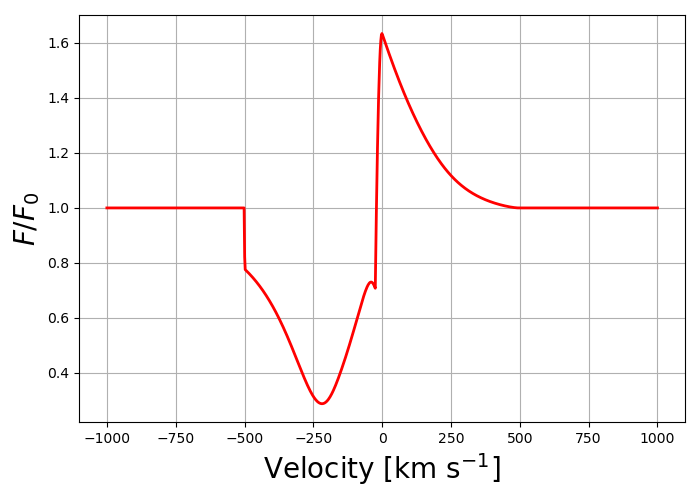
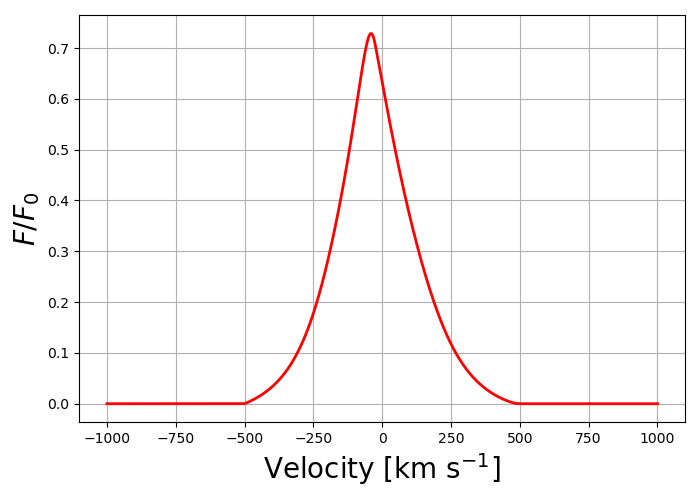
typo corrections

diff --git a/python/SALT2022_LineProfile.py b/python/SALT2022_LineProfile.py
@@ -62,7 +62,7 @@ def makeEmissionPROFILE(waves,lam_ref,v_obs,SALT_parameters,Emission_Profiles):
 
     return line_profiles
 
-def Line_Profile(v_obs,lam_ref,background,flow_parameters,profile_parameters):
+def Line_Profile(v_obs,lam_ref,background,flow_parameters,profile_parameters,profile_type):
 
     abs_waves,abs_osc_strs,em_waves,em_osc_strs,res,fluor,p_r,p_f,final_waves,line_num,v_obs, lam_ref, APERTURE, OCCULTATION = profile_parameters.values()
     alpha,psi,gamma,tau,v_0,v_w,v_ap,f_c,k,delta = flow_parameters.values()
@@ -90,6 +90,12 @@ def Line_Profile(v_obs,lam_ref,background,flow_parameters,profile_parameters):
         
     Emission = makeEmissionPROFILE(final_waves,lam_ref,v_obs,parameters_em,Emission_Profiles)
     Absorption = Normalized_Flux_Lists[-1]
-    spectrum = Absorption+Emission
+
+    if profile_type == 'absorption':
+        return Absorption
+    elif profile_type == 'emission':
+        return Emission
+    else:
+        return Absorption+Emission
 
     return spectrum

diff --git a/python/SALT2022_Absorption.py b/python/SALT2022_Absorption.py
@@ -9,9 +9,9 @@ def get_Y_1_Root(y,x,Gamma10):
 	y_1_poly = y**2.0*(1.0-y**Gamma10)-x**2.0  
 	return y_1_poly
 
-def get_Y_1AP_Root(y,x,y_ap,Gamma2,Gamma5):
-	y_1_poly_ap = y**Gamma5*x**2.0+y_ap**Gamma2-y**Gamma2
-	return y_1_poly_ap
+def get_Y_1AP_Root(y,x,y_ap,Gamma2,Gamma5):        
+    y_1_poly_ap = y**Gamma5*x**2.0+y_ap**Gamma2-y**Gamma2
+    return y_1_poly_ap
 
 def get_Absorption_Profile_GIV(y,x,tau,f_holes,A,G,H,O,P,R,Gamma1,Gamma2,Gamma3,Gamma4,Gamma6,Gamma7,Gamma8,Gamma9):
 

diff --git a/docs/source/general_usage.rst b/docs/source/general_usage.rst
@@ -88,6 +88,9 @@ The SALT model code consists of three python scripts: SALT2022_Absorption.py, SA
     OCCULTATION = True
     APERTURE = True
 
+    # type of line profile (absorption, emission, or pcygni)
+    profile_type = 'pcygni'
+
     # Outflow parameters
     flow_parameters = {'alpha':alpha, 'psi':psi, 'gamma':gamma, 'tau':tau, 'v_0':v_0, 'v_w':v_w, 'v_ap':v_ap, 'f_c':f_c, 'k':k, 'delta':delta}
 
@@ -105,7 +108,7 @@ The SALT model code consists of three python scripts: SALT2022_Absorption.py, SA
     profile_parameters = {'abs_waves':[1190.42,1193.28],'abs_osc_strs':[0.277,.575], 'em_waves':[1190.42,1190.42,1193.28,1193.28],'em_osc_strs':[0.277,0.277,0.575,0.575],'res':[True,False,True,False],'fluor':[False,True,False,True],'p_r':[.1592,.1592,.6577,.6577],'p_f':[.8408,.8408,.3423,.3423],'final_waves':[1190.42,1194.5,1193.28,1197.39],'line_num':[2,2], 'v_obs':v_obs,'lam_ref':lam_ref, 'APERTURE':APERTURE,'OCCULTATION':OCCULTATION}
 
     #Line_Profile --> output spectrum or line profile
-    spectrum  = Line_Profile(v_obs,lam_ref,background,flow_parameters,profile_parameters)
+    spectrum  = Line_Profile(v_obs,lam_ref,background,flow_parameters,profile_parameters,profile_type)
 
     # plot spectrum in terms of observed velocities
     from matplotlib import pyplot as plt
@@ -141,11 +144,12 @@ The following is a list of different line profiles predicted with SALT.
     alpha,psi,gamma, tau, v_0, v_w, v_ap, f_c, k, delta = np.pi/4.0,np.pi/4.0,1.0,1.0,25.0,500.0,500.0,1.0,0.0,3.0
     OCCULTATION = True
     APERTURE = True
+    profile_type = 'pcygni'
 
     flow_parameters = {'alpha':alpha, 'psi':psi, 'gamma':gamma, 'tau':tau, 'v_0':v_0, 'v_w':v_w, 'v_ap':v_ap, 'f_c':f_c, 'k':k, 'delta':delta}
     profile_parameters = {'abs_waves':[1260.42],'abs_osc_strs':[1.22], 'em_waves':[1260.42,1260.42],'em_osc_strs':[1.22,1.22],'res':[True,False],'fluor':[False,True],'p_r':[0.45811051693404636,0.45811051693404636],'p_f':[0.5418894830659536,0.5418894830659536],'final_waves':[1260.42,1265.02],'line_num':[2], 'v_obs':v_obs,'lam_ref':lam_ref, 'APERTURE':APERTURE,'OCCULTATION':OCCULTATION}
 
-    spectrum = Line_Profile(v_obs,lam_ref,background,flow_parameters,profile_parameters)
+    spectrum = Line_Profile(v_obs,lam_ref,background,flow_parameters,profile_parameters,profile_type)
 
     fig, ax = plt.subplots(1,1, figsize=(7, 5))
     ax.plot(v_obs,spectrum,'r',linewidth = 2.0)
@@ -161,7 +165,7 @@ The following is a list of different line profiles predicted with SALT.
     
 .. code-block:: python
 
-    # SiIII 1206 singlet (dusty sphere)
+    # SiIII 1206 singlet (pure emission profile for a dusty sphere)
 
     lam_ref = 1206.5
     v_obs = np.linspace(-1000,1000,1000)
@@ -169,11 +173,12 @@ The following is a list of different line profiles predicted with SALT.
     alpha,psi,gamma, tau, v_0, v_w, v_ap, f_c, k, delta = np.pi/2.0,0,1.0,1.0,25.0,500.0,500.0,1.0,10.0,3.0
     OCCULTATION = True
     APERTURE = True
+    profile_type = 'emission'
 
     flow_parameters = {'alpha':alpha, 'psi':psi, 'gamma':gamma, 'tau':tau, 'v_0':v_0, 'v_w':v_w, 'v_ap':v_ap, 'f_c':f_c, 'k':k, 'delta':delta}
     profile_parameters = {'abs_waves':[1206.5],'abs_osc_strs':[1.67], 'em_waves':[1206.5],'em_osc_strs':[1.67],'res':[True],'fluor':[False],'p_r':[1.0],'p_f':[0.0],'final_waves':[1206.5],'line_num':[1], 'v_obs':v_obs,'lam_ref':lam_ref, 'APERTURE':APERTURE,'OCCULTATION':OCCULTATION}
 
-    spectrum = Line_Profile(v_obs,lam_ref,background,flow_parameters,profile_parameters)
+    spectrum = Line_Profile(v_obs,lam_ref,background,flow_parameters,profile_parameters,profile_type)
 
     fig, ax = plt.subplots(1,1, figsize=(7, 5))
     ax.plot(v_obs,spectrum,'r',linewidth = 2.0)
@@ -197,11 +202,12 @@ The following is a list of different line profiles predicted with SALT.
     alpha,psi,gamma, tau, v_0, v_w, v_ap, f_c, k, delta = np.pi/4.0,np.pi/2.0,1.0,1.0,25.0,500.0,500.0,1.0,0.0,3.0
     OCCULTATION = True
     APERTURE = True
+    profile_type = 'pcygni'
 
     flow_parameters = {'alpha':alpha, 'psi':psi, 'gamma':gamma, 'tau':tau, 'v_0':v_0, 'v_w':v_w, 'v_ap':v_ap, 'f_c':f_c, 'k':k, 'delta':delta}
     profile_parameters = {'abs_waves':[1393.76,1402.77],'abs_osc_strs':[.513,.255], 'em_waves':[1393.76,1402.77],'em_osc_strs':[.513,.255],'res':[True,True],'fluor':[False,False],'p_r':[1.0,1.0],'p_f':[0.0,0.0],'final_waves':[1393.76,1402.77],'line_num':[1,1], 'v_obs':v_obs,'lam_ref':lam_ref, 'APERTURE':APERTURE,'OCCULTATION':OCCULTATION}
 
-    spectrum  = Line_Profile(v_obs,lam_ref,background,flow_parameters,profile_parameters)
+    spectrum  = Line_Profile(v_obs,lam_ref,background,flow_parameters,profile_parameters,profile_type)
 
     fig, ax = plt.subplots(1,1, figsize=(7, 5))
     ax.plot(v_obs,spectrum,'r',linewidth = 2.0)
@@ -231,11 +237,12 @@ The following is a list of different line profiles predicted with SALT.
     alpha,psi,gamma, tau, v_0, v_w, v_ap, f_c, k, delta = np.pi/2.0,0,1.0,1.0,25.0,500.0,50.0,1.0,0.0,3.0
     OCCULTATION = True
     APERTURE = True
+    profile_type = 'pcygni'
 
     flow_parameters = {'alpha':alpha, 'psi':psi, 'gamma':gamma, 'tau':tau, 'v_0':v_0, 'v_w':v_w, 'v_ap':v_ap, 'f_c':f_c, 'k':k, 'delta':delta}
     profile_parameters = {'abs_waves':[1548.202,1550.772],'abs_osc_strs':[0.19,0.0952], 'em_waves':[1548.202,1550.772],'em_osc_strs':[0.19,0.0952],'res':[True,True],'fluor':[False,False],'p_r':[1.0,1.0],'p_f':[0.0,0.0],'final_waves':[1548.202,1550.772],'line_num':[1,1], 'v_obs':v_obs,'lam_ref':lam_ref, 'APERTURE':APERTURE,'OCCULTATION':OCCULTATION}
 
-    spectrum = Line_Profile(v_obs,lam_ref,background,flow_parameters,profile_parameters)
+    spectrum = Line_Profile(v_obs,lam_ref,background,flow_parameters,profile_parameters,profile_type)
 
     fig, ax = plt.subplots(1,1, figsize=(7, 5))
     ax.plot(v_obs,spectrum,'r',linewidth = 2.0)
@@ -264,11 +271,12 @@ The following is a list of different line profiles predicted with SALT.
     alpha,psi,gamma, tau, v_0, v_w, v_ap, f_c, k, delta = np.pi/4.0,0,1.0,1.0,25.0,500.0,500.0,1.0,0.0,3.0
     OCCULTATION = True
     APERTURE = True
+    profile_type = 'pcygni'
 
     flow_parameters = {'alpha':alpha, 'psi':psi, 'gamma':gamma, 'tau':tau, 'v_0':v_0, 'v_w':v_w, 'v_ap':v_ap, 'f_c':f_c, 'k':k, 'delta':delta}
     profile_parameters = {'abs_waves':[2796.35,2803.53],'abs_osc_strs':[0.608,0.303], 'em_waves':[2796.35,2803.53],'em_osc_strs':[0.608,0.303],'res':[True,True],'fluor':[False,False],'p_r':[1.0,1.0],'p_f':[0.0,0.0],'final_waves':[2796.35,2803.53],'line_num':[1,1], 'v_obs':v_obs,'lam_ref':lam_ref, 'APERTURE':APERTURE,'OCCULTATION':OCCULTATION}
 
-    spectrum = Line_Profile(v_obs,lam_ref,background,flow_parameters,profile_parameters)
+    spectrum = Line_Profile(v_obs,lam_ref,background,flow_parameters,profile_parameters,profile_type)
 
     fig, ax = plt.subplots(1,1, figsize=(7, 5))
     ax.plot(v_obs,spectrum,'r',linewidth = 2.0)
@@ -284,7 +292,7 @@ The following is a list of different line profiles predicted with SALT.
     
 .. code-block:: python
 
-    # Fe II 343.49,2364.83,2380.76 (sphere with Gaussian ISM absorption)
+    # Fe II 2344.21, 2365.55, 2365.97, 2381.49 (sphere with Gaussian ISM absorption)
 
     lam_ref = 2343.49
     v_obs = np.linspace(-1000,6000,2000)
@@ -295,11 +303,12 @@ The following is a list of different line profiles predicted with SALT.
     alpha,psi,gamma, tau, v_0, v_w, v_ap, f_c, k, delta = np.pi/2.0,0,1.0,1.0,25.0,500.0,500.0,1.0,0.0,3.0
     OCCULTATION = True
     APERTURE = True
+    profile_type = 'pcygni'
 
     flow_parameters = {'alpha':alpha, 'psi':psi, 'gamma':gamma, 'tau':tau, 'v_0':v_0, 'v_w':v_w, 'v_ap':v_ap, 'f_c':f_c, 'k':k, 'delta':delta}
-    profile_parameters = {'abs_waves':[2343.49],'abs_osc_strs':[.114,.0495,.0351], 'em_waves':[2343.49,2364.83,2380.76],'em_osc_strs':[.114,.0495,.0351],'res':[True,False,False],'fluor':[False,True,True],'p_r':[0.657794676807,0.657794676807,0.657794676807],'p_f':[0.22433460076+0.117870722433,0.22433460076,0.117870722433],'final_waves':[2343.49,2364.83,2380.76],'line_num':[3], 'v_obs':v_obs,'lam_ref':lam_ref, 'APERTURE':APERTURE,'OCCULTATION':OCCULTATION}
+    profile_parameters = {'abs_waves':[2344.21],'abs_osc_strs':[.114], 'em_waves':[2343.49, 2343.49, 2343.49],'em_osc_strs':[.114, .114, .114],'res':[True,False,False],'fluor':[False,True,True],'p_r':[0.657794676807,0.657794676807,0.657794676807],'p_f':[0.22433460076+0.117870722433,0.22433460076,0.117870722433],'final_waves':[2344.21, 2365.55, 2365.97, 2381.49],'line_num':[3], 'v_obs':v_obs,'lam_ref':lam_ref, 'APERTURE':APERTURE,'OCCULTATION':OCCULTATION}
 
-    spectrum = Line_Profile(v_obs,lam_ref,background,flow_parameters,profile_parameters)
+    spectrum = Line_Profile(v_obs,lam_ref,background,flow_parameters,profile_parameters,profile_type)
 
     fig, ax = plt.subplots(1,1, figsize=(7, 5))
     ax.plot(v_obs,spectrum,'r',linewidth = 2.0)

diff --git a/docs/source/fitting.rst b/docs/source/fitting.rst
@@ -37,11 +37,13 @@ Fitting with MCMC
        OCCULTATION = True
        APERTURE = True
 
+       profile_type = 'pcygni'
+
        flow_parameters = {'alpha':alpha, 'psi':psi, 'gamma':gamma, 'tau':tau, 'v_0':v_0, 'v_w':v_w, 'v_ap':v_ap, 'f_c':f_c, 'k':k, 'delta':delta}
        profile_parameters = {'abs_waves':[1190.42,1193.28],'abs_osc_strs':[0.277,.575], 'em_waves':[1190.42,1190.42,1193.28,1193.28],'em_osc_strs':[0.277,0.277,0.575,0.575],'res':[True,False,True,False],'fluor':[False,True,False,True],'p_r':[.1592,.1592,.6577,.6577],'p_f':[.8408,.8408,.3423,.3423],'final_waves':[1190.42,1194.5,1193.28,1197.39],'line_num':[2,2], 'v_obs':v_range,'lam_ref':lam_ref, 'APERTURE':APERTURE,'OCCULTATION':OCCULTATION}
 
        # SALT is first run on a higher resolution array, then smoothed and rebinned to match the data
-       model = Line_Profile(v_range,lam_ref,background,flow_parameters,profile_parameters)
+       model = Line_Profile(v_range,lam_ref,background,flow_parameters,profile_parameters,profile_type)
        model = np.array(g.gaussian_filter1d(model,res))
        model = rebin(v_range,model,v_obs)
 
@@ -148,25 +150,23 @@ Here we analyize the results of the model fitting.
     delta_chain = chain[:,:,8]+chain[:,:,2]+2.0
     v_ap_chain = chain[:,:,9]
 
-    # convert chains to arrays
-    alpha_arr = np.array(alpha_chain.ravel())
-    psi_arr = np.array(psi_chain.ravel())
-    gamma_arr = np.array(gamma_chain.ravel())
-    tau_arr = np.array(tau_chain.ravel())
-    v_0_arr = np.array(v_0_chain.ravel())
-    v_w_arr = np.array(v_w_chain.ravel())
-    f_c_arr = np.array(f_c_chain.ravel())
-    k_arr = np.array(k_chain.ravel())
-    delta_arr = np.array(delta_chain.ravel())
-    v_ap_arr = np.array(v_ap_chain.ravel())
-
-    # find best	fit from likelihood samples
+    # find best fit from likelihood samples
     likelihood = np.genfromtxt('0911_likelihoods.txt').ravel()
-    bf_ind = np.where(likelihood == max(likelihood))[0][0]
-    best_fit = [alpha_arr[bf_ind],psi_arr[bf_ind],gamma_arr[bf_ind],tau_arr[bf_ind],v_0_arr[bf_ind],v_w_arr[bf_ind],f_c_arr[bf_ind],k_arr[bf_ind],delta_arr[bf_ind],v_ap_arr[bf_ind]]
+    bf_index = np.where(likelihood == max(likelihood))[0][0]
+    f1=int(bf_index%nwalkers)
+    f2=int((bf_index-f1)/nwalkers)
 
-    # best fit SALT parameters
-    alpha,psi,gamma,tau,v_0,v_w,f_c,k,delta,v_ap = best_fit
+    # best fit SALT parameters 
+    alpha = chain[f1,f2,0]
+    psi = chain[f1,f2,1]
+    gamma = chain[f1,f2,2]
+    tau = 10**chain[f1,f2,3]
+    v_0 = chain[f1,f2,4]
+    v_w = chain[f1,f2,5]
+    f_c = chain[f1,f2,6]
+    k = 10**chain[f1,f2,7]
+    delta = chain[f1,f2,8]+chain[f1,f2,2]+2.0
+    v_ap= chain[f1,f2,9]
 
     # compute SALT
     lam_ref = 1193.28
